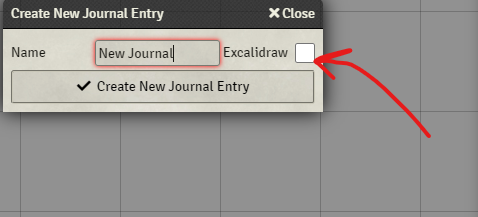
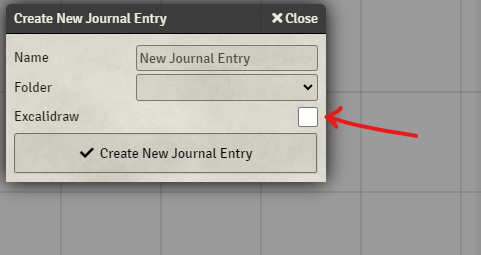
Fixed styling

diff --git a/excalidraw-journals.js b/excalidraw-journals.js
@@ -1,46 +1,49 @@
 // https://excalidraw.com/#room=[0-9a-f]{20},[a-zA-Z0-9_-]{22}
 
 function _excaMakeRoomId() {
-    var result           = '';
-    var characters       = 'abcdef0123456789';
-    var charactersLength = characters.length;
-    for ( var i = 0; i < 20; i++ ) {
-      result += characters.charAt(Math.floor(Math.random() * charactersLength));
-    }
+  let result = '';
+  const characters = 'abcdef0123456789';
+  const charactersLength = characters.length;
+  for (let i = 0; i < 20; i++) {
+    result += characters.charAt(Math.floor(Math.random() * charactersLength));
+  }
   return result;
 }
 
 function _excaMakeRoomCypher() {
-    var result           = '';
-    var characters       = 'ABCDEFGHIJKLMNOPQRSTUVWXYZabcdefghijklmnopqrstuvwxyz0123456789_-';
-    var charactersLength = characters.length;
-    for ( var i = 0; i < 22; i++ ) {
-      result += characters.charAt(Math.floor(Math.random() * charactersLength));
-    }
+  let result = '';
+  const characters = 'ABCDEFGHIJKLMNOPQRSTUVWXYZabcdefghijklmnopqrstuvwxyz0123456789_-';
+  const charactersLength = characters.length;
+  for (let i = 0; i < 22; i++) {
+    result += characters.charAt(Math.floor(Math.random() * charactersLength));
+  }
   return result;
 }
 
-Hooks.on('renderDialog', function(dialog, elem) {
+Hooks.on('renderDialog', function (dialog, elem) {
   if (dialog.title === 'Create New Journal Entry') {
-    elem.find(".form-group").append(`
-          <div style="margin-left: -30px;" class="form-fields">
+    elem.find("#document-create").last().append(`
+          <div class="form-group">
             <label for="excalidraw">Excalidraw</label>
-            <input type="checkbox" id="excalidraw" name="excalidraw">
+            <div class="form-fields"><input type="checkbox" id="excalidraw" name="excalidraw"></div>
           </div>
           `
     );
+    elem.outerHeight(elem.outerHeight() + 35);
+    console.log(dialog);
   }
 });
 
-Hooks.on('preCreateJournalEntry', function(entry, params, options) {
+Hooks.on('preCreateJournalEntry', function (entry, params, options) {
   if (params.excalidraw) {
     const roomCode = _excaMakeRoomId();
     const roomCypher = _excaMakeRoomCypher();
-    entry.data.update({content: `
+    entry.data.update({
+      content: `
       <div style="height: 100%;"><iframe src="https://excalidraw.com/#room=${roomCode},${roomCypher}" width="100%" height="100%"></iframe></div>
       `
     });
-    Hooks.once('createJournalEntry', function(journal) {
+    Hooks.once('createJournalEntry', function (journal) {
       journal.sheet.position.width = canvas.screenDimensions[0] * 0.50;
       journal.sheet.position.height = canvas.screenDimensions[1] * 0.75;
     });

diff --git a/CHANGELOG.md b/CHANGELOG.md
@@ -1,2 +1,5 @@
+## 1.0.1
+* Fixed dialog box style
+
 ## 1.0.0
 * Initial release
